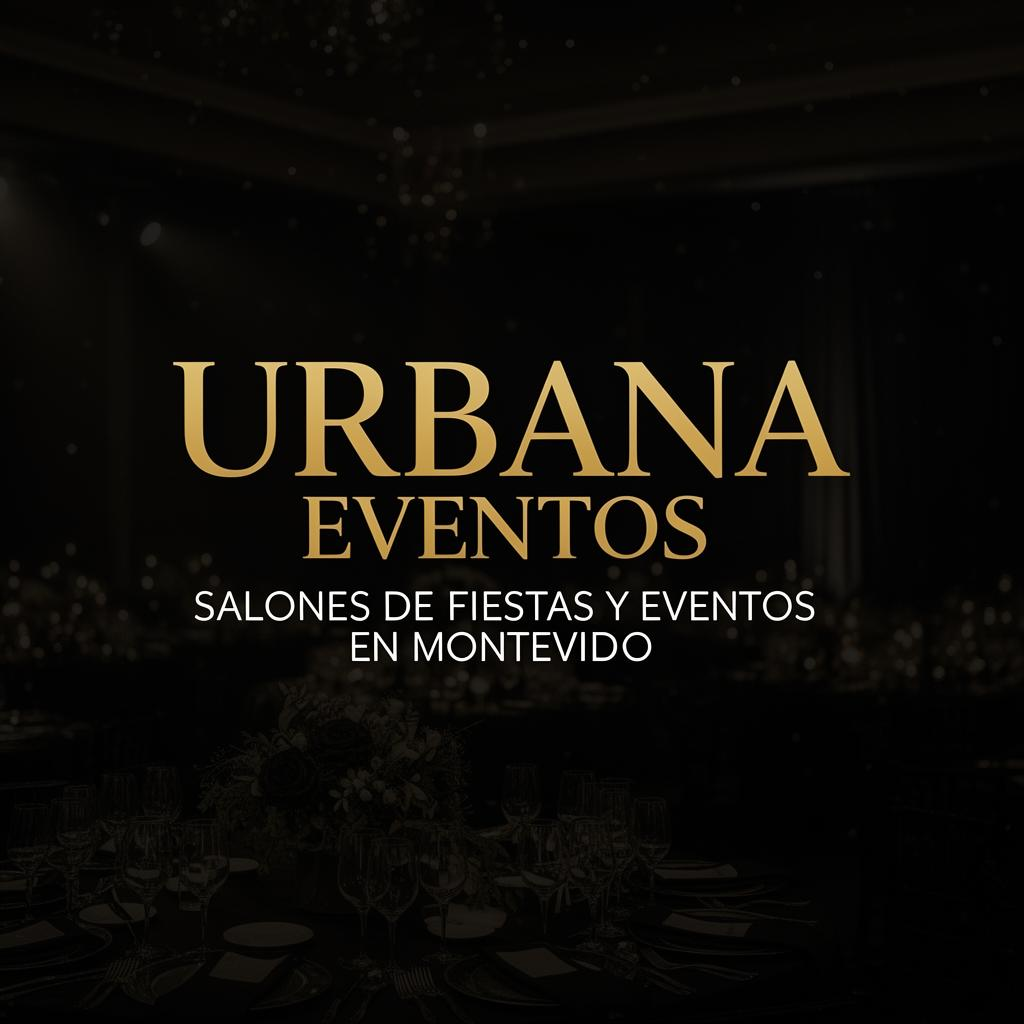
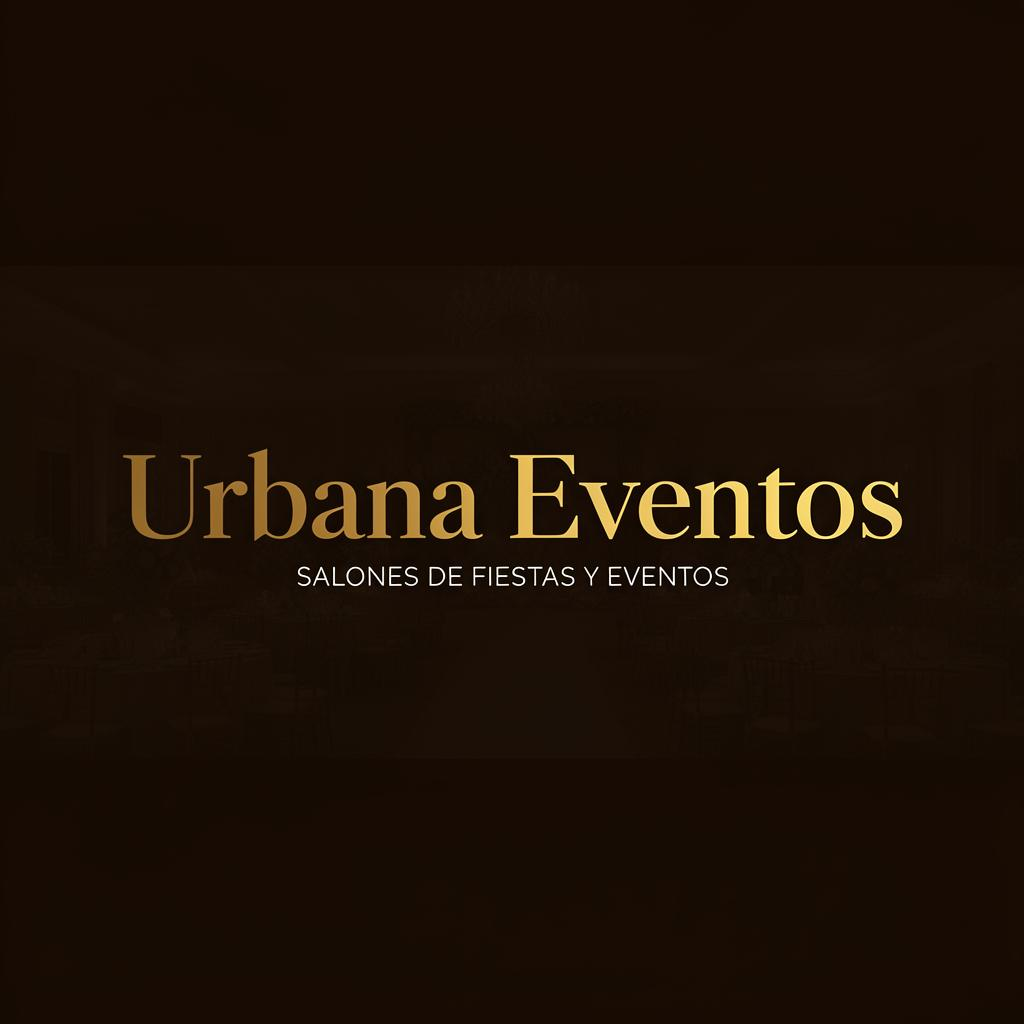
Adjust OG tags and image

diff --git a/index.html b/index.html
@@ -6,7 +6,7 @@
     
     <!-- Primary SEO -->
     <title>Urbana Eventos | Salones de Fiestas y Eventos</title>
-    <meta name="description" content="Organizamos tu evento ideal en Montevideo. Salones para casamientos, cumpleaños, eventos empresariales y más. Cotizá gratis y recibí la mejor propuesta." />
+    <meta name="description" content="Organizamos tu evento ideal. Salones para casamientos, cumpleaños, eventos empresariales y más. Cotizá gratis y recibí la mejor propuesta." />
     <meta name="keywords" content="salón de fiestas, eventos empresariales, casamientos, cumpleaños, Montevideo, Urbana Eventos, salones para fiestas, despedida de año, eventos corporativos" />
     <meta name="author" content="Urbana Eventos" />
     <meta name="robots" content="index, follow" />
